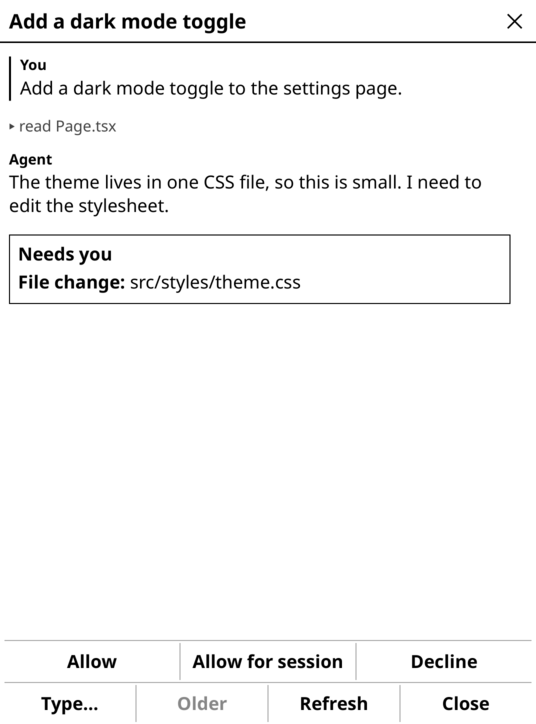
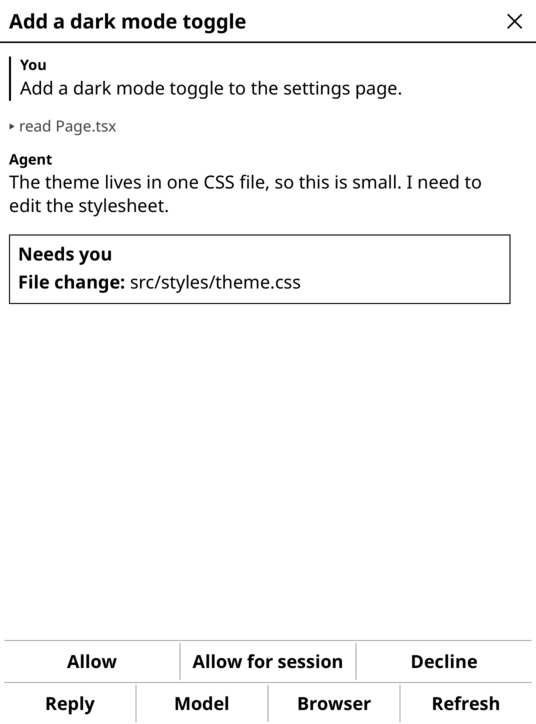
Retake the thread and approval screenshots

diff --git a/README.md b/README.md
@@ -12,7 +12,7 @@ keyboard is there for everything else.
 
 <p>
 <img src="docs/screenshots/thread-list.png" width="32%" alt="Thread list grouped by project, with needs-you, working and done states">
-<img src="docs/screenshots/thread-view.png" width="32%" alt="A finished thread: the work folded into one row, the reply with a table and code, and suggested replies as buttons">
+<img src="docs/screenshots/thread-view.png" width="32%" alt="A finished thread: the work folded into one row, and the reply with a table and code">
 <img src="docs/screenshots/approval.png" width="32%" alt="A thread waiting for approval, with Allow, Allow for session and Decline buttons">
 </p>
 
